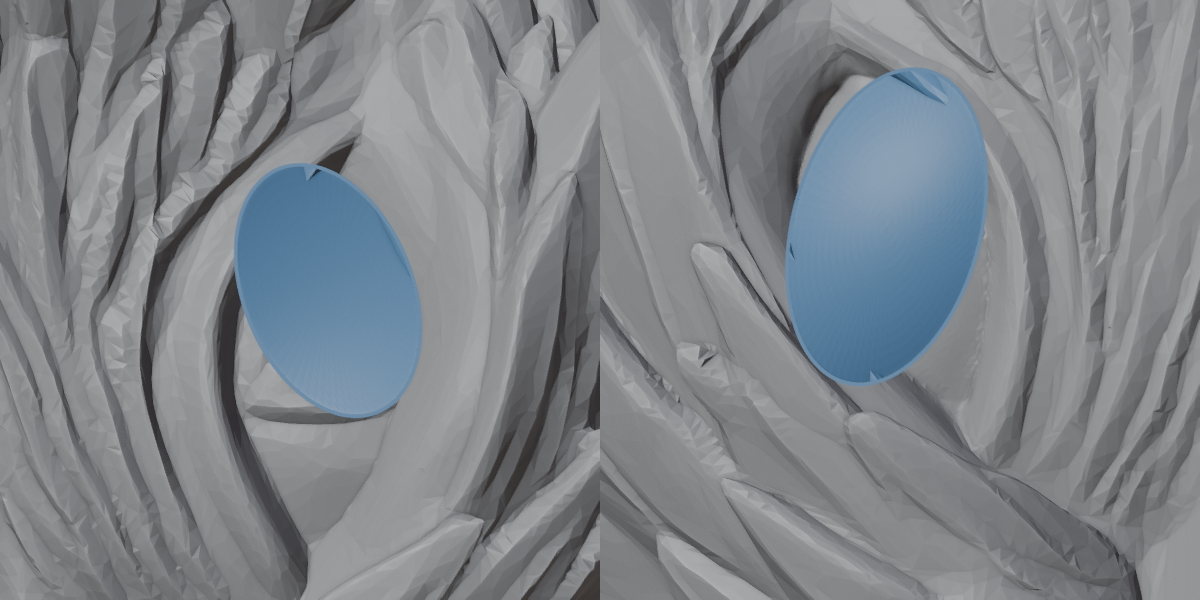
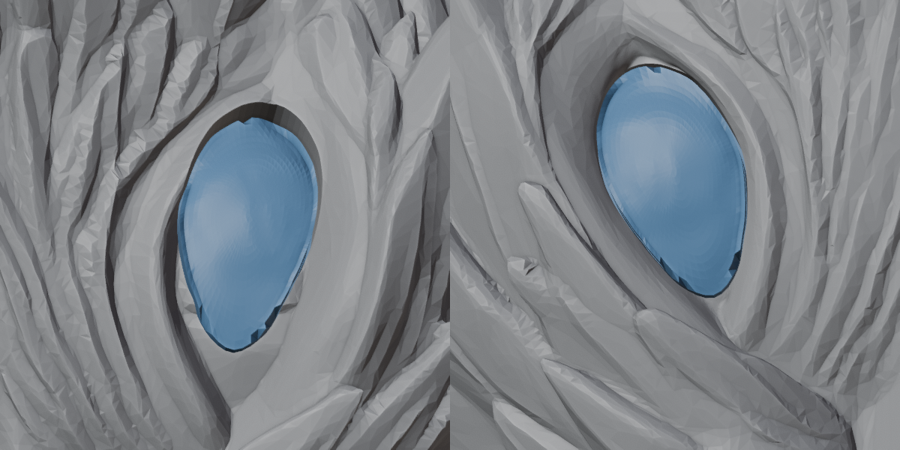
Ojos v4: tomados del ojo liso esculpido (derecho) y su espejo; contorno exacto del globo, iris en relieve por dentro

Changed region(s): [[0.1867, 0.2178, 0.3733, 0.7778], [0.6533, 0.0933, 0.84, 0.6844]]

diff --git a/hardware/modelado/ojos4.py b/hardware/modelado/ojos4.py
@@ -1,0 +1,111 @@
+"""
+Ojos v4: tomados del ojo liso esculpido (derecho) y su espejo (izquierdo).
+
+  - Contorno: borde exacto del globo ocular (globo_esfera.py), no un óvalo.
+  - Por fuera: la superficie real del globo liso.
+  - Por dentro: el iris tallado del ojo izquierdo original, en relieve (más resina = más oscuro).
+  - Reborde por dentro + bolsillo del LED (Ø 8,9 × 2,6 mm medido) en la cabeza.
+
+Uso: python ojos4.py cabeza.stl "forma preliminar.stl" carpeta_globos(espejo) salida
+"""
+import sys, json
+from pathlib import Path
+import numpy as np, trimesh, manifold3d as mf
+
+T, HOLG, PARED, REB, T_REB = 1.0, 0.10, 0.6, 1.4, 1.0
+LED_D, HOLG_LED, BOSS_EXTRA, BOSS_FONDO = 8.9, 0.2, 2.0, 11.0
+NS, NT = 16, 96
+cab_f, orig_f, gl_d, out = sys.argv[1:5]; gl_d, out = Path(gl_d), Path(out); out.mkdir(parents=True, exist_ok=True)
+man = lambda t: mf.Manifold(mf.Mesh(vert_properties=np.asarray(t.vertices, np.float32), tri_verts=np.asarray(t.faces, np.uint32)))
+def tm(M):
+    me = M.to_mesh(); return trimesh.Trimesh(np.asarray(me.vert_properties)[:, :3], np.asarray(me.tri_verts), process=False)
+CAB = man(trimesh.load_mesh(cab_f, process=True)); print('CAB', CAB.status(), CAB.volume())
+orig = trimesh.load_mesh(orig_f, process=True)
+SOL = man(trimesh.load_mesh(str(Path(orig_f).parent / 'modelado' / 'cuervo_reparado.stl'), process=True)); print('SOL', SOL.status())
+X0 = json.load(open(gl_d / "espejo.json"))["X0"]
+
+
+def marco(g):
+    ar = g.area_faces; c = ar @ g.triangles_center / ar.sum()
+    e = ar @ g.face_normals; e /= np.linalg.norm(e)
+    x = np.cross([0, 0, 1], e); x /= np.linalg.norm(x); y = np.cross(e, x)
+    return c, e, x, y
+
+
+def contorno(g, c, e, x, y):
+    """Radio del borde del globo por ángulo (contorno estrellado desde el centro)."""
+    bordes = trimesh.grouping.group_rows(g.edges_sorted, require_count=1)
+    P = g.vertices[np.unique(g.edges_sorted[bordes])] - c
+    px, py = P @ x, P @ y
+    th = np.arctan2(py, px); rr = np.hypot(px, py)
+    ts = np.linspace(-np.pi, np.pi, NT, endpoint=False)
+    R = np.array([np.median(rr[np.abs((th - t + np.pi) % (2 * np.pi) - np.pi) < 0.12]) for t in ts])
+    k = 3; Rp = np.r_[R[-k:], R, R[:k]]
+    return ts, np.convolve(Rp, np.ones(2 * k + 1) / (2 * k + 1), "valid")
+
+
+def alturas(malla, c, e, x, y, pts2):
+    q = [c + x * px + y * py + e * 20 for px, py in pts2]
+    L, I, _ = malla.ray.intersects_location(q, [-e] * len(q), multiple_hits=False)
+    h = np.full(len(q), np.nan); h[I] = (L - c) @ e; return h
+
+
+# Relieve del iris: ojo izquierdo original menos el globo liso espejado, en el marco del ojo izquierdo
+gL = trimesh.load_mesh(gl_d / "globo_izq.stl", process=True)
+cL, eL, xL, yL = marco(gL)
+info, cabeza = {}, CAB
+for nom in ("izq", "der"):
+    g = trimesh.load_mesh(gl_d / f"globo_{nom}.stl", process=True)
+    c, e, x, y = marco(g)
+    ts, R = contorno(g, c, e, x, y)
+    R = R - HOLG
+    pts = [(0.0, 0.0)] + [(r * s * np.cos(t), r * s * np.sin(t)) for s in np.linspace(0, 1, NS + 1)[1:] for t, r in zip(ts, R)]
+    pts = np.array(pts)
+    Hout = alturas(g, c, e, x, y, pts)
+    Hout = np.where(np.isfinite(Hout), Hout, np.nanmin(Hout))
+    # relieve: mismo punto relativo en el ojo izquierdo (espejado en x para el derecho)
+    pr = pts.copy()
+    if nom == "der": pr[:, 0] *= -1
+    Ho = alturas(orig, cL, eL, xL, yL, pr); Hs = alturas(gL, cL, eL, xL, yL, pr)
+    rel = np.clip(np.nan_to_num(Ho - Hs, nan=0.0), -1.2, 0.0)
+    Hin = Hout - T + rel
+    P3 = lambda h: c + np.outer(pts[:, 0], x) + np.outer(pts[:, 1], y) + np.outer(h, e)
+    N = len(pts); idx = lambda si, ti: 1 + si * NT + (ti % NT)
+    F = []
+    for ti in range(NT):
+        F.append([0, idx(0, ti), idx(0, ti + 1)])
+        for si in range(NS - 1):
+            F += [[idx(si, ti), idx(si + 1, ti), idx(si + 1, ti + 1)], [idx(si, ti), idx(si + 1, ti + 1), idx(si, ti + 1)]]
+    F = np.array(F); W = []
+    for ti in range(NT):
+        a, b = idx(NS - 1, ti), idx(NS - 1, ti + 1); W += [[a, b, b + N], [a, b + N, a + N]]
+    sh = trimesh.Trimesh(np.vstack([P3(Hout), P3(Hin)]), np.vstack([F, F[:, ::-1] + N, W]), process=True)
+    trimesh.repair.fix_normals(sh)
+    if sh.volume < 0: sh.invert()
+    capa = man(sh)
+    print(nom, "capa", capa.status(), round(capa.volume(),1), "R", R.min().round(2), R.max().round(2), "nan Hout", np.isnan(alturas(g, c, e, x, y, pts)).sum(), flush=True)
+    # sección del contorno para paredes, reborde y agujero
+    def seccion(off):
+        return mf.CrossSection([[(float((r + off) * np.cos(t)), float((r + off) * np.sin(t))) for t, r in zip(ts, R)]])
+    M = np.column_stack([x, y, e, c])
+    ext = lambda off, z0, z1: mf.Manifold.extrude(seccion(off), z1 - z0).translate([0, 0, z0]).transform(M)
+    borde_in = float(np.min(Hin[-NT:])); zr = float(np.min(Hin)) - 1.6
+    pared = (ext(0, zr, borde_in + 0.3) - ext(-PARED, zr - 1, borde_in + 1.3)) ^ SOL.translate(list(-e * 0.4))
+    reborde = (ext(REB, zr - T_REB, zr) - ext(-PARED, zr - 2, zr + 1)) ^ SOL.translate(list(-e * 0.8))
+    inserto = capa + pared + reborde
+    partes = inserto.decompose(); inserto = max(partes, key=lambda q: q.volume())
+    rb = float(R.max()) + REB + BOSS_EXTRA
+    boss = mf.Manifold.cylinder(BOSS_FONDO, rb, rb, 96).translate([0, 0, zr - BOSS_FONDO + 2]).transform(M) ^ SOL
+    zl = zr - T_REB
+    hueco = (ext(HOLG, zr - 0.01, 8) + ext(REB + HOLG, zl - 0.01, zr + 0.01)
+             + mf.Manifold.cylinder(BOSS_FONDO + 2, LED_D / 2 + HOLG_LED, LED_D / 2 + HOLG_LED, 96).translate([0, 0, zl - BOSS_FONDO - 1]).transform(M))
+    cabeza = (cabeza + boss) - hueco
+    tm(inserto).export(out / f"ojo_{nom}.stl")
+    info[nom] = {"ancho_mm": round(float(2 * R.min()), 2), "largo_mm": round(float(2 * R.max()), 2),
+                 "grosor_min_mm": round(float(np.min(Hout - Hin)), 2), "grosor_max_mm": round(float(np.max(Hout - Hin)), 2),
+                 "volumen_mm3": round(inserto.volume(), 1), "trozos_descartados": len(partes) - 1}
+    print(nom, info[nom], flush=True)
+tm(cabeza).export(out / "cabeza_ojos.stl")
+info["cabeza_trozos"] = sum(q.volume() > 1 for q in cabeza.decompose())
+(out / "ojos.json").write_text(json.dumps(info, indent=2, ensure_ascii=False), encoding="utf-8")
+print("listo", info["cabeza_trozos"])

diff --git a/hardware/modelado/globo_esfera.py b/hardware/modelado/globo_esfera.py
@@ -1,0 +1,57 @@
+"""
+Globo ocular por ajuste de esfera: desde el centro del ojo crece por la superficie mientras la
+cara esté cerca de la esfera ajustada (de -DN mm por debajo —iris tallado, surco— a +DP mm por
+encima). El párpado sobresale de la esfera y marca el borde. La esfera se re-ajusta en cada ronda.
+
+Uso: python globo_esfera.py "forma preliminar.stl" salida_dir [DN] [DP]
+"""
+import sys, json
+from pathlib import Path
+from collections import deque
+import numpy as np, trimesh
+
+src, out = sys.argv[1], Path(sys.argv[2]); out.mkdir(parents=True, exist_ok=True)
+DN = float(sys.argv[3]) if len(sys.argv) > 3 else 1.2
+DP = float(sys.argv[4]) if len(sys.argv) > 4 else 0.25
+RMAX = 6.0
+R0 = float(sys.argv[5]) if len(sys.argv) > 5 else 1.2
+m = trimesh.load_mesh(src, process=True)
+CENTROS = {"izq": [-12.14, -64.61, 268.97], "der": [17.62, -61.78, 268.02]}
+EJES = {"izq": [-0.826, -0.247, -0.507], "der": [0.918, -0.172, -0.359]}
+
+
+def esfera(P, w=None):
+    w = np.ones(len(P)) if w is None else w
+    A = np.c_[2 * P, np.ones(len(P))] * w[:, None]; b = (P ** 2).sum(1) * w
+    x = np.linalg.lstsq(A, b, rcond=None)[0]; c = x[:3]; return c, np.sqrt(x[3] + c @ c)
+
+
+res = {}
+for nom, c0 in CENTROS.items():
+    c0 = np.array(c0); e = np.array(EJES[nom]); e /= np.linalg.norm(e)
+    loc, _, _ = m.ray.intersects_location([c0 + e * 20], [-e], multiple_hits=False)
+    p0 = loc[0]
+    cerca = np.nonzero(np.linalg.norm(m.triangles_center - p0, axis=1) < RMAX + 1)[0]
+    sub = m.submesh([cerca], append=True); cc = sub.triangles_center; ar = sub.area_faces
+    adj = sub.face_adjacency
+    vec = [[] for _ in range(len(cc))]
+    for a, b in adj: vec[a].append(b); vec[b].append(a)
+    sel = np.linalg.norm(cc - p0, axis=1) < R0
+    for ronda in range(8):
+        cs, Rs = esfera(cc[sel], ar[sel])
+        dev = np.linalg.norm(cc - cs, axis=1) - Rs
+        ok = (dev > -DN) & (dev < DP) & (np.linalg.norm(cc - p0, axis=1) < RMAX)
+        s0 = int(np.argmin(np.linalg.norm(cc - p0, axis=1)))
+        nuevo = np.zeros(len(cc), bool); nuevo[s0] = True; q = deque([s0])
+        while q:
+            i = q.popleft()
+            for j in vec[i]:
+                if not nuevo[j] and ok[j]: nuevo[j] = True; q.append(j)
+        if (nuevo == sel).all(): break
+        sel = nuevo
+    g = sub.submesh([np.nonzero(sel)[0]], append=True)
+    g.export(out / f"globo_{nom}.stl")
+    res[nom] = {"centro_esfera": cs.round(3).tolist(), "radio": round(float(Rs), 3), "area_mm2": round(float(ar[sel].sum()), 1),
+                "eje": e.tolist(), "rondas": ronda + 1}
+    print(nom, res[nom])
+(out / "globos.json").write_text(json.dumps(res, indent=2), encoding="utf-8")

diff --git a/hardware/modelado/globo_ocular.py b/hardware/modelado/globo_ocular.py
@@ -20,7 +20,8 @@ RMAX = float(sys.argv[4]) if len(sys.argv) > 4 else 5.0
 semillas = {}
 for k, (c, e, (xr, yu)) in VISTA.items():
     c, e = np.array(c), np.array(e) / np.linalg.norm(e); f = -e
-    r = np.cross(f, [0, 0, 1]); r /= np.linalg.norm(r); u = np.cross(r, f)
+    VJ = json.load(open(str(out.parent.parent / "ojos2" / "ejes_vista.json")))[k]
+    r, u = np.array(VJ["derecha"]), np.array(VJ["arriba"])
     semillas[k] = (list(c + r * xr + u * yu + e * 30), list(f))
 res = {}
 for nom, (o, d) in semillas.items():
